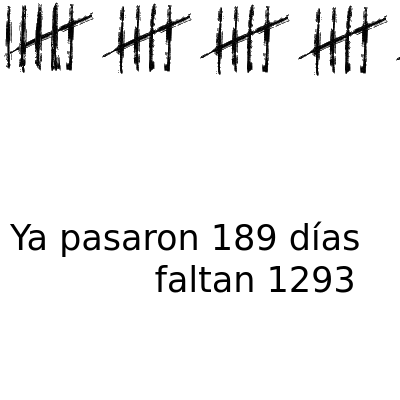
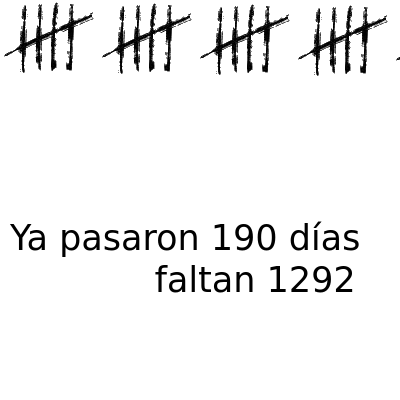
deploy: 28882f26f23b9f53dac6c4991168e610486d0e44

Changed region(s): [[0.0, 0.0, 0.15, 0.18], [0.57, 0.57, 0.69, 0.63], [0.84, 0.66, 0.9, 0.75]]

diff --git a/index.html b/index.html
@@ -3,19 +3,19 @@
   <head>
     <meta charset='utf-8'>
     <meta http-equiv='X-UA-Compatible' content='IE=edge'>
-    <title>Ya pasaron 189 días y faltan 1293</title>
-    <meta name="description" content="Ya pasaron 189 días y faltan 1293">
-    <meta itemprop="name" content="Ya pasaron 189 días y faltan 1293">
-    <meta itemprop="description" content="Ya pasaron 189 días y faltan 1293">
+    <title>Ya pasaron 190 días y faltan 1292</title>
+    <meta name="description" content="Ya pasaron 190 días y faltan 1292">
+    <meta itemprop="name" content="Ya pasaron 190 días y faltan 1292">
+    <meta itemprop="description" content="Ya pasaron 190 días y faltan 1292">
     <meta name="twitter:card" content="summary">
-    <meta name="twitter:title" content="Ya pasaron 189 días y faltan 1293">
-    <meta name="twitter:description" content="Ya pasaron 189 días y faltan 1293">
+    <meta name="twitter:title" content="Ya pasaron 190 días y faltan 1292">
+    <meta name="twitter:description" content="Ya pasaron 190 días y faltan 1292">
     <meta name="twitter:creator" content="@FloriusWasTaken">
     <meta name="twitter:image" content="https://pasaron.meme.ar/capture.png">
-    <meta property="og:title" content="Ya pasaron 189 días y faltan 1293">
-    <meta property="og:description" content="Ya pasaron 189 días y faltan 1293">
+    <meta property="og:title" content="Ya pasaron 190 días y faltan 1292">
+    <meta property="og:description" content="Ya pasaron 190 días y faltan 1292">
     <meta property="og:url" content="https://pasaron.meme.ar">
-    <meta property="og:site_name" content="Ya pasaron 189 días y faltan 1293">
+    <meta property="og:site_name" content="Ya pasaron 190 días y faltan 1292">
     <meta property="og:type" content="website">
     <meta property="og:image" content="https://pasaron.meme.ar/capture.png">
     <meta name="theme-color" content="#dc143c">
@@ -69,18 +69,16 @@
         padding: 0;
       }
     </style>
-    <title>Ya pasaron 189 días y faltan 1293</title>
+    <title>Ya pasaron 190 días y faltan 1292</title>
   </head>
   <body>
     <div id="main">
-      <img src="img/5.png"/><img src="img/5.png"/><img src="img/5.png"/><img src="img/5.png"/><img src="img/5.png"/><img src="img/5.png"/><img src="img/5.png"/><img src="img/5.png"/><img src="img/5.png"/><img src="img/5.png"/><img src="img/5.png"/><img src="img/5.png"/><img src="img/5.png"/><img src="img/5.png"/><img src="img/5.png"/><img src="img/5.png"/><img src="img/5.png"/><img src="img/5.png"/><img src="img/5.png"/><img src="img/5.png"/><img src="img/5.png"/><img src="img/5.png"/><img src="img/5.png"/><img src="img/5.png"/><img src="img/5.png"/><img src="img/5.png"/><img src="img/5.png"/><img src="img/5.png"/><img src="img/5.png"/><img src="img/5.png"/><img src="img/5.png"/><img src="img/5.png"/><img src="img/5.png"/><img src="img/5.png"/><img src="img/5.png"/><img src="img/5.png"/><img src="img/5.png"/>
-      
-        <img src="img/4.png"/>
+      <img src="img/5.png"/><img src="img/5.png"/><img src="img/5.png"/><img src="img/5.png"/><img src="img/5.png"/><img src="img/5.png"/><img src="img/5.png"/><img src="img/5.png"/><img src="img/5.png"/><img src="img/5.png"/><img src="img/5.png"/><img src="img/5.png"/><img src="img/5.png"/><img src="img/5.png"/><img src="img/5.png"/><img src="img/5.png"/><img src="img/5.png"/><img src="img/5.png"/><img src="img/5.png"/><img src="img/5.png"/><img src="img/5.png"/><img src="img/5.png"/><img src="img/5.png"/><img src="img/5.png"/><img src="img/5.png"/><img src="img/5.png"/><img src="img/5.png"/><img src="img/5.png"/><img src="img/5.png"/><img src="img/5.png"/><img src="img/5.png"/><img src="img/5.png"/><img src="img/5.png"/><img src="img/5.png"/><img src="img/5.png"/><img src="img/5.png"/><img src="img/5.png"/><img src="img/5.png"/>
       
     </div>
     <footer id="footer">
       <marquee id="marquee" class="is-vertical-align">
-        Ya pasaron 189 días y faltan 1293
+        Ya pasaron 190 días y faltan 1292
       </marquee>
       <ul>
         <li>
